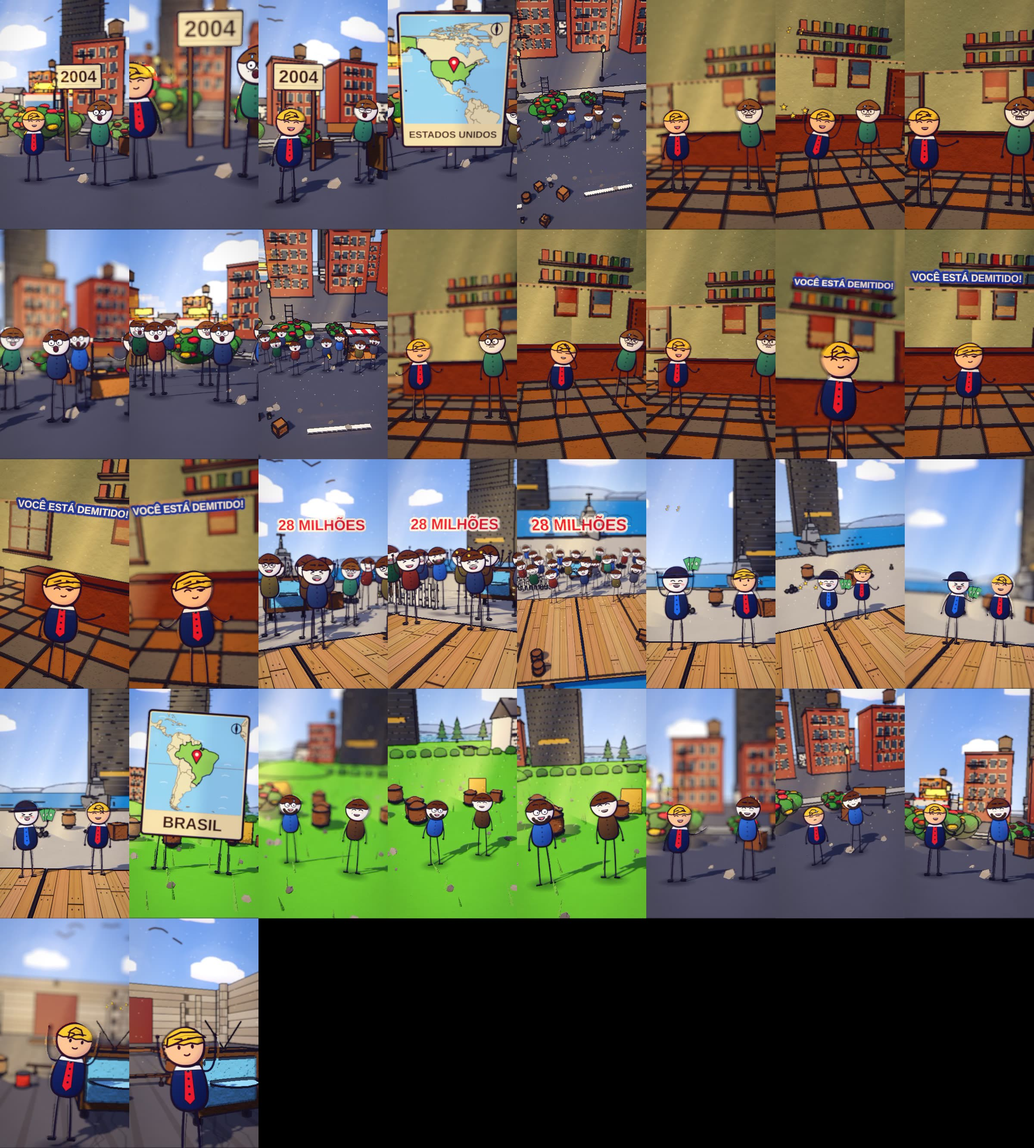
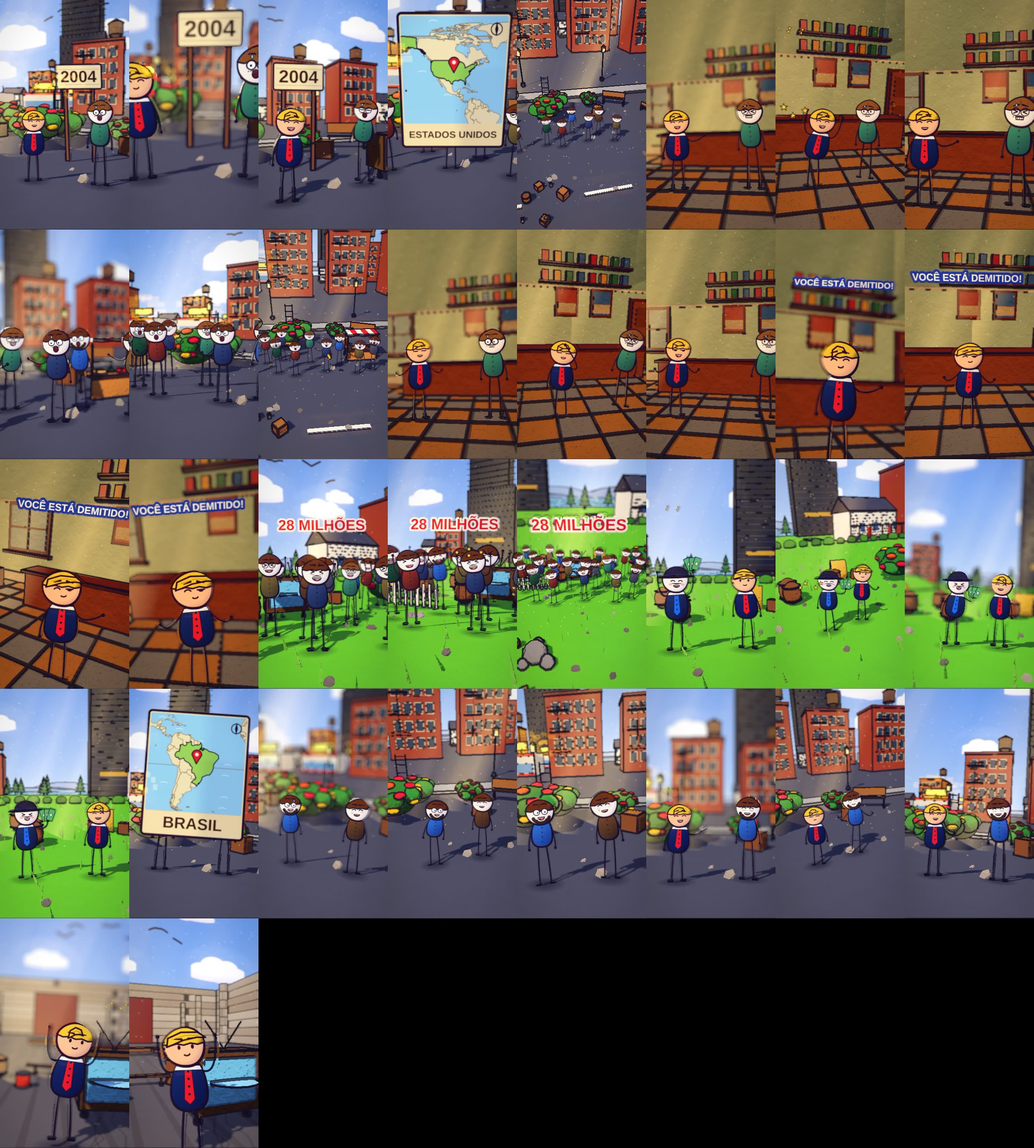
aprendiz2004 revisao+aprovacao (b4 b6 b7 b9 CORRIGIDO)
Claude-Session: https://claude.ai/code/session_01HE8Dy3Tz5Mgz6d3rSUrMHS

Changed region(s): [[0.0, 0.4049, 1.0, 0.8098]]

diff --git a/ferramenta-shorts/stories/aprendiz2004/revisao_storyboard.md b/ferramenta-shorts/stories/aprendiz2004/revisao_storyboard.md
@@ -1,11 +1,11 @@
 b0: OK - rua de Nova York com a placa 2004, o apresentador loiro de gravata vermelha e o candidato surpreso, empresario que virou estrela mundial com a frase voce esta demitido.
 b1: OK - mapa dos ESTADOS UNIDOS com marcador e depois grupo de candidatos na rua, o programa O Aprendiz estreou nos Estados Unidos em janeiro de dois mil e quatro.
-b2: OK - sala com estrelas de vitoria, apresentador de bracos erguidos e candidato ao lado na grade, dezesseis candidatos disputavam um premio raro, um emprego de verdade na empresa de Trump.
-b3: OK - candidatos na barraca de limonada com estrelas e moeda girando na grade, a tarefa semanal de vender limonada na rua ou criar uma propaganda.
-b4: CORRIGIDO - candidato parado de bracos cruzados na palavra embora, a saida nao aparecia no mp4 -> frase trocada por alguem era eliminado, com a mao na testa do perdedor na grade, a equipe perdedora ia para a sala de reuniao.
-b5: OK - close do apresentador na sala com a placa VOCE ESTA DEMITIDO!, ele aponta e fala, o jeito de eliminar virou a marca do programa e a frase voce esta demitido.
-b6: OK - multidao no campo com a placa 28 MILHOES e bracos para cima, a final da primeira temporada vista por vinte e oito milhoes de americanos.
-b7: OK - vencedor Bill Rancic com notas de dinheiro de bracos erguidos e estrelas ao ganhar o emprego, o salario de duzentos e cinquenta mil dolares por ano.
-b8: OK - mapa do BRASIL com marcador e dois personagens na rua conversando e rindo, o formato se espalhou pelo mundo e no Brasil estreou no mesmo ano com Roberto Justus.
-b9: CORRIGIDO - apresentador nao saia nem entrava de verdade nos verbos saiu e entrou -> frase trocada por ate dois mil e quinze quando foi para a politica, apresentador explicando na rua (cais com navio de guerra removido), Trump apresentou o programa por mais de dez anos.
-b10: OK - close do apresentador sorrindo de bracos erguidos com a TV heroi inteira ao fundo na rua, um programa de emprego famoso justamente por demitir.
+b2: OK - sala com estrelas de vitoria, apresentador de bracos erguidos e candidato ao lado, dezesseis candidatos disputavam um premio raro, um emprego de verdade na empresa de Trump.
+b3: OK - candidatos na barraca de limonada com estrelas e moeda girando na grade de acoes, a tarefa semanal de vender limonada na rua ou criar uma propaganda.
+b4: CORRIGIDO - candidato parado de bracos cruzados na palavra embora, a saida nao aparecia no mp4 -> frase trocada por alguem era eliminado, mao na testa do perdedor, a equipe perdedora ia para a sala de reuniao.
+b5: OK - close do apresentador na sala com a placa VOCE ESTA DEMITIDO! e estrelas, ele aponta e fala, o jeito de eliminar virou a marca do programa e a frase voce esta demitido.
+b6: CORRIGIDO - cenario de porto com navio de guerra sem relacao com a final do programa -> campo verde aberto com multidao e a placa 28 MILHOES de bracos erguidos, a final vista por vinte e oito milhoes de americanos.
+b7: CORRIGIDO - cenario de porto com navio de guerra atras do vencedor -> campo verde, vencedor Bill Rancic com notas de dinheiro de bracos erguidos e estrelas, ganhou o emprego com salario de duzentos e cinquenta mil dolares.
+b8: OK - mapa do BRASIL com marcador e dois personagens conversando e rindo no campo e na rua, o formato se espalhou pelo mundo e no Brasil estreou no mesmo ano com Roberto Justus.
+b9: CORRIGIDO - apresentador no cais com navio de guerra e sem saida visivel nos verbos saiu e entrou -> rua com prédios e apresentador explicando, frase ate dois mil e quinze quando foi para a politica, Trump apresentou o programa.
+b10: OK - close do apresentador sorrindo de bracos erguidos com a TV heroi inteira ao lado no estudio, um programa de emprego famoso justamente por demitir.
